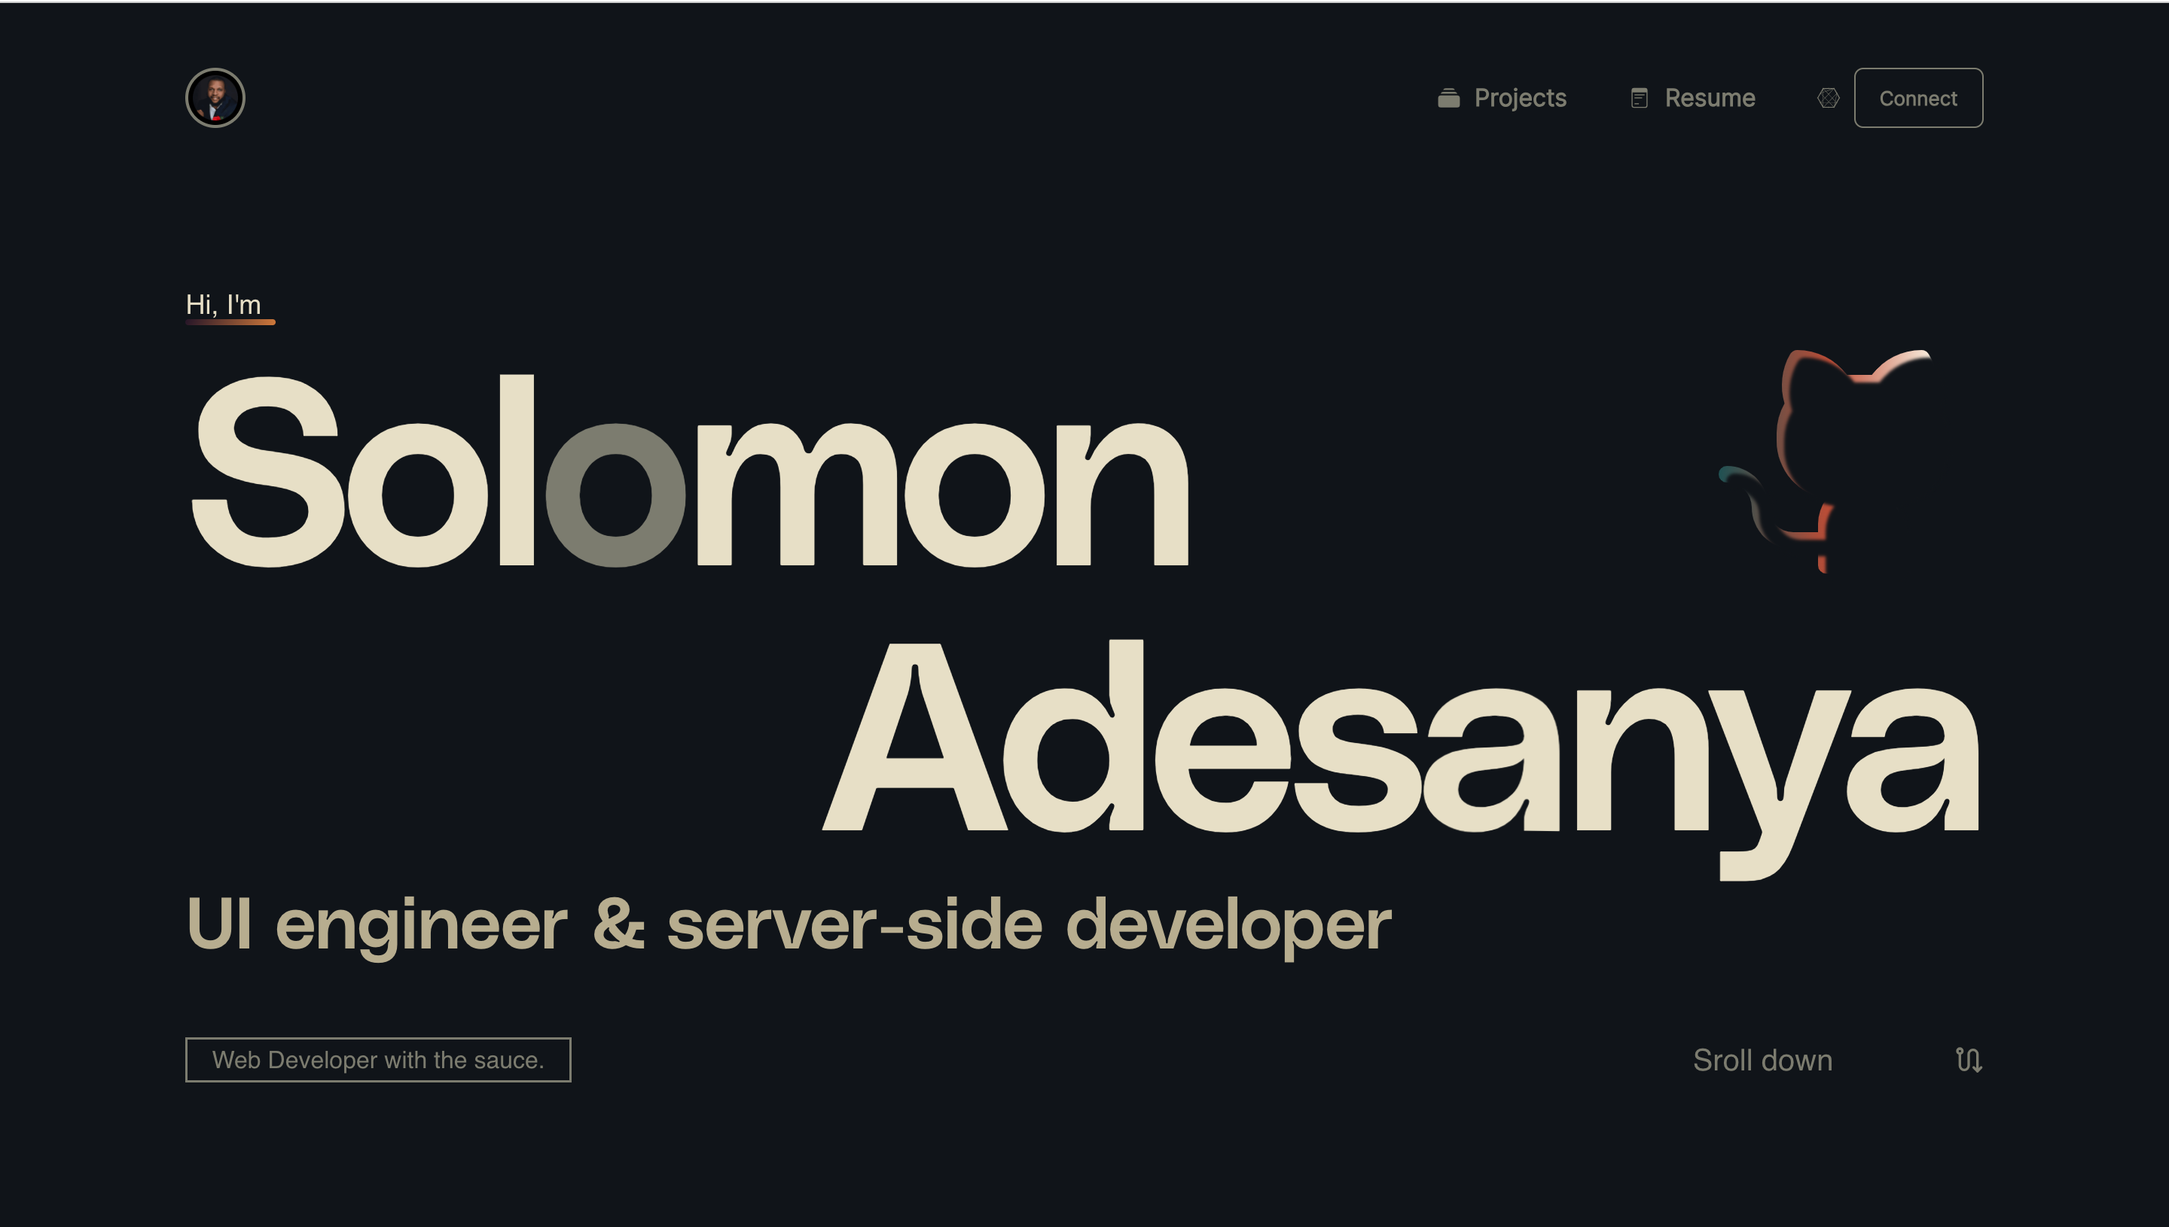
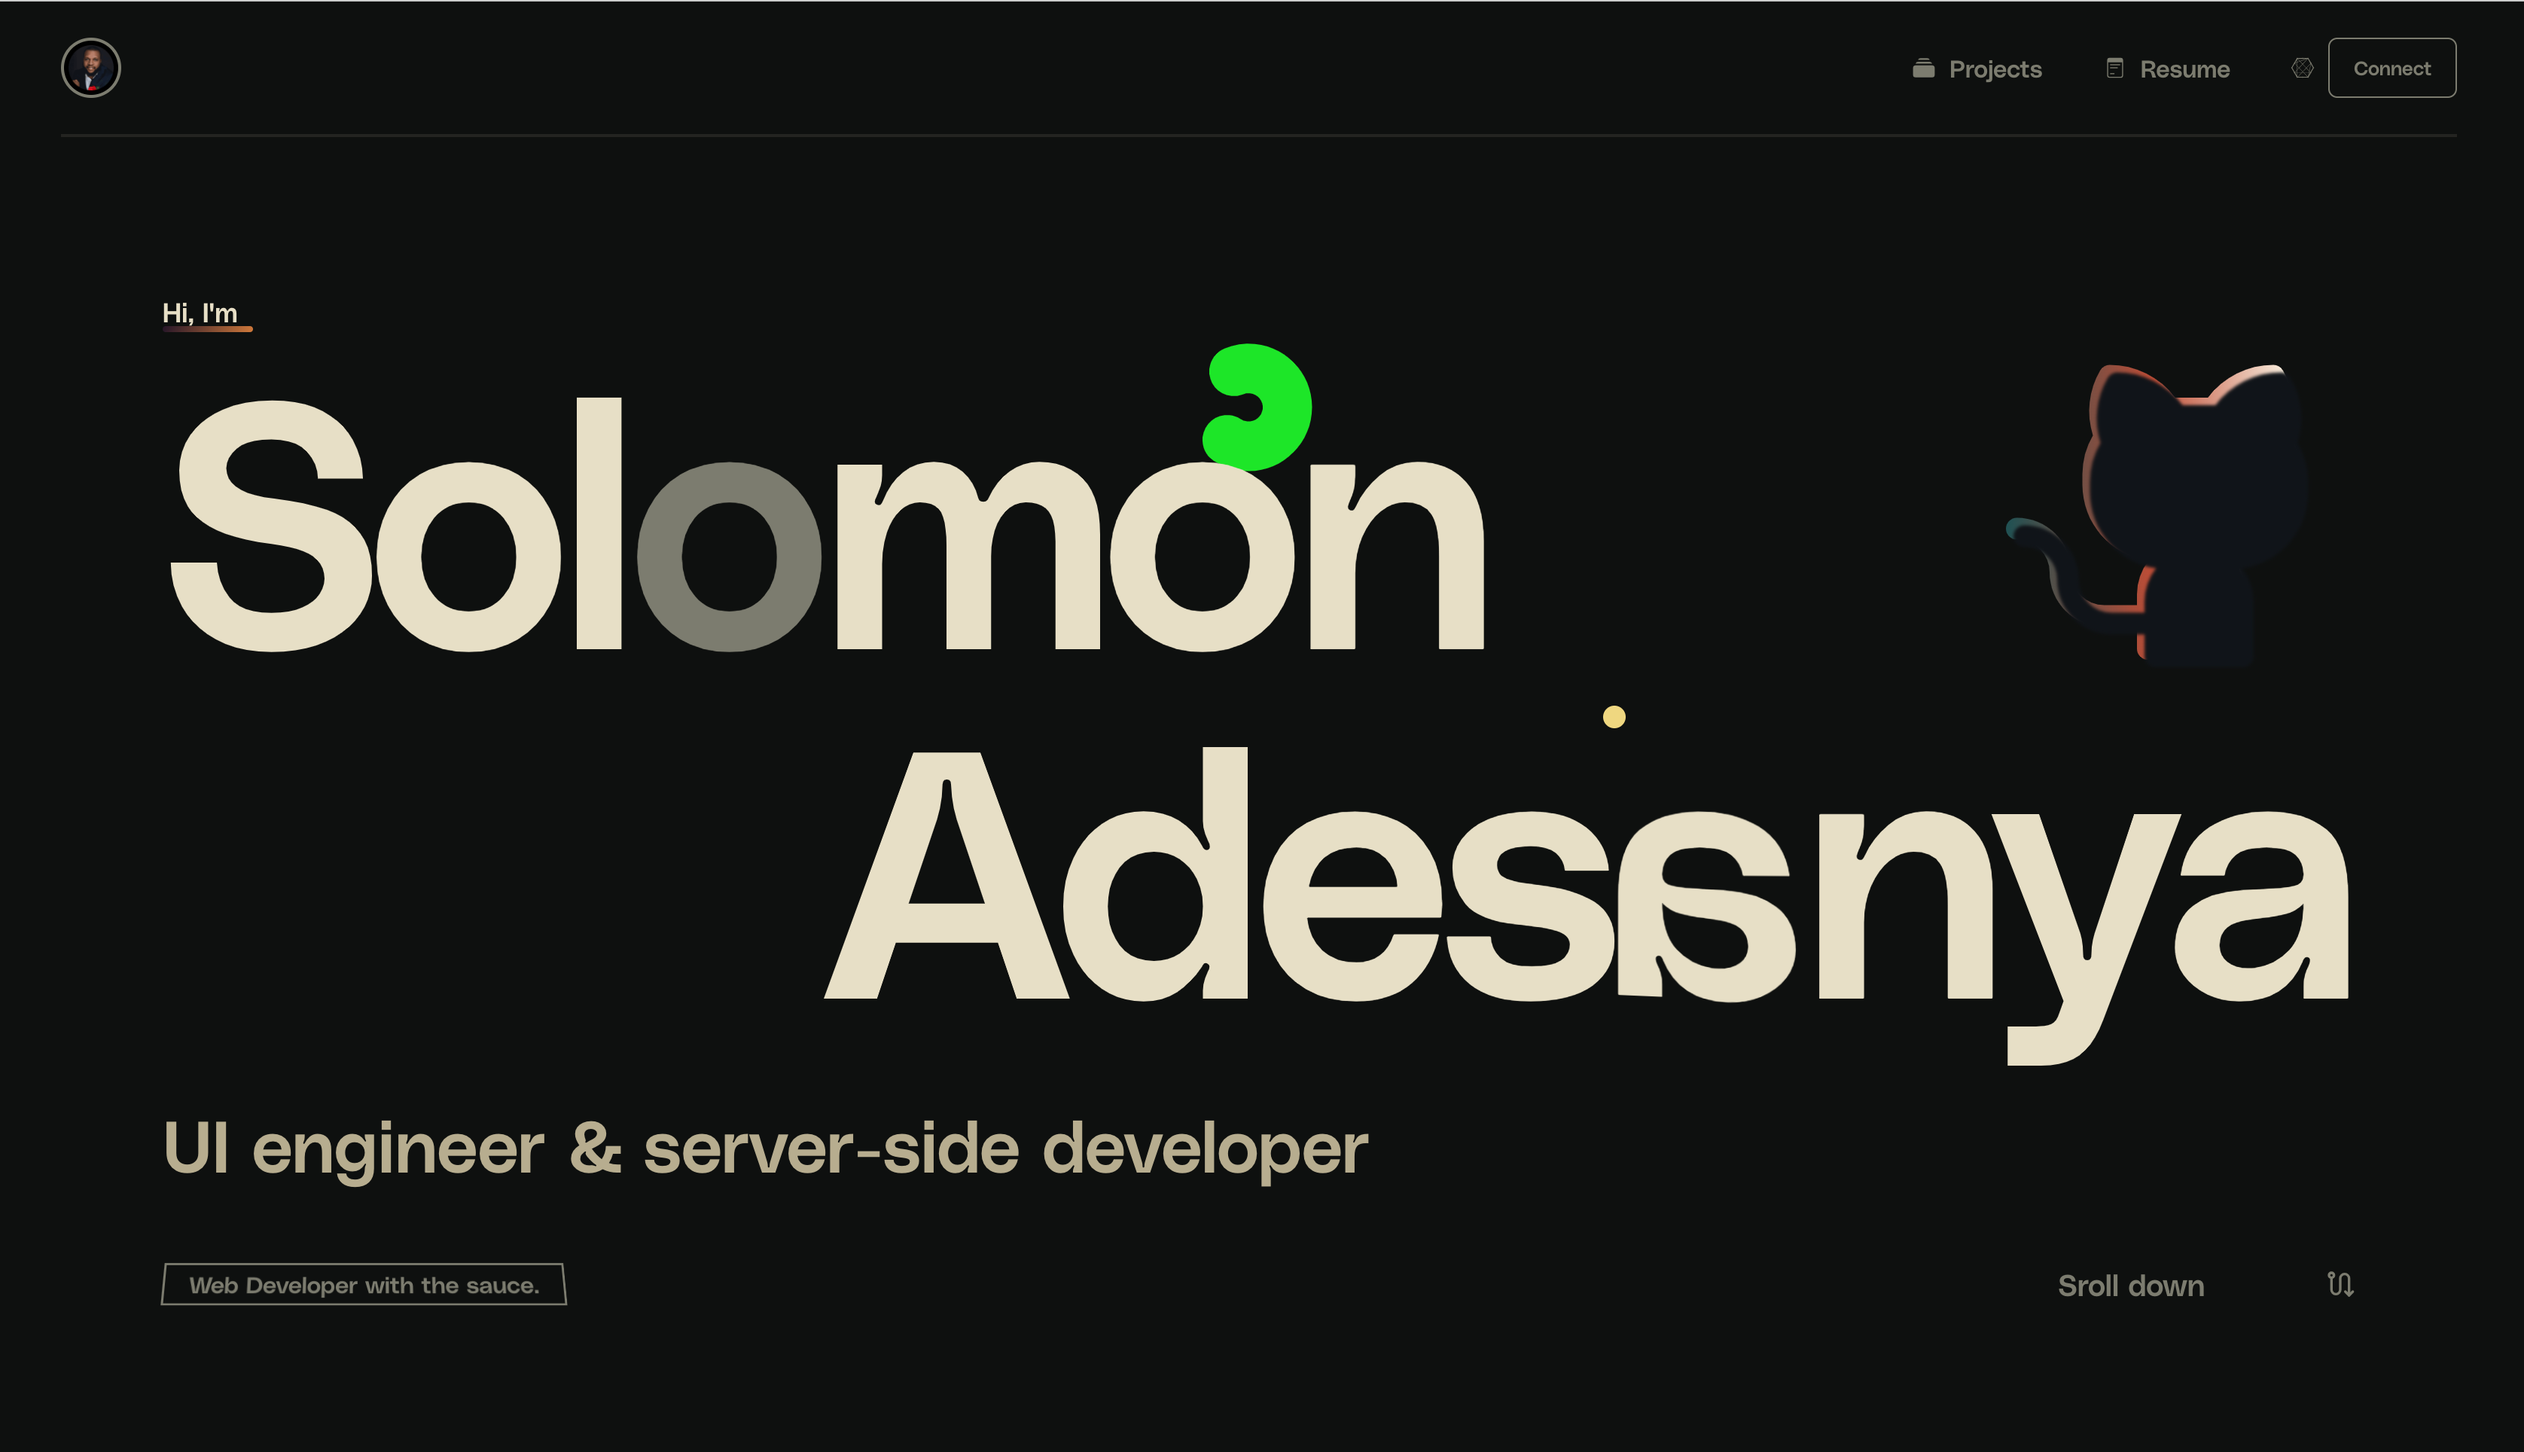
Lottie animations implemented

diff --git a/pages/index.tsx b/pages/index.tsx
@@ -19,10 +19,26 @@ import {
   GithubFooter,
   CursorChaser,
 } from "@/components";
+import { useLottie } from "lottie-react";
+import bouncingSpring from "../lotties/bouncingSpring.json";
+import { CSSProperties } from "react";
 
 import { VStack, Text, Box, Flex, Container } from "@chakra-ui/react";
 
 export default function Home() {
+  const options = {
+    animationData: bouncingSpring,
+    loop: true,
+  };
+
+  const style: CSSProperties = {
+    width: "500px",
+    height: "200px",
+    margin: "0 auto",
+    color: "#B7AD8F",
+  };
+  const { View: spring } = useLottie(options, style);
+
   const elementRef = useRef<HTMLDivElement | null>(null);
   const elementRefs: React.RefObject<HTMLDivElement>[] = [];
   const contextRef = elementRef;
@@ -77,7 +93,7 @@ export default function Home() {
           w={`full`}
           maxW={"100vw"}
         >
-          <Box w={`full`}>
+          <Box w={`full`} position={'relative'}>
             <Box
               position={`relative`}
               boxShadow={`lg white`}
@@ -96,6 +112,7 @@ export default function Home() {
                 className="hi"
               ></Text>
             </Box>
+            <Box  w={`full`}  position={"absolute"}>{spring}</Box>
             {/* Name in Desktop version */}
             <HeroNameInDesktop />
             {/* Name in mobile version */}

diff --git a/components/About.tsx b/components/About.tsx
@@ -1,6 +1,27 @@
-import { Box, Text,} from "@chakra-ui/react";
+import { Box, Text } from "@chakra-ui/react";
 import { Magnifier } from ".";
+import { useLottie } from "lottie-react";
+import scrollLottie from "../lotties/scroll-lottie.json";
+import { CSSProperties } from "react";
+
 const About: React.FC = () => {
+
+
+
+
+  const options = {
+    animationData: scrollLottie,
+    loop: true,
+  };
+
+  const style: CSSProperties = {
+    width: "300px",
+    height: "80px",
+    margin: "0 auto",
+    color:"#B7AD8F"
+  };
+  const { View: lottieButton } = useLottie(options, style);
+
   return (
     <Box position={`relative`} color={`#B7AD8F`}>
       <Box
@@ -82,7 +103,7 @@ const About: React.FC = () => {
                   with a passion for Impeccable design.
                 </Text>
               </Box>
-
+              {lottieButton}
               <Box
                 className="square-box"
                 width={`10vw`}

diff --git a/sass/globals.scss b/sass/globals.scss
@@ -319,7 +319,9 @@ textarea::placeholder {
   height: 100%;
   font-size: 5em;
 }
-
+.lottie-animation {
+  color: #1f5153 !important;
+}
 // .scroll-box {
 //   scroll-behavior: smooth !important;
 // }
